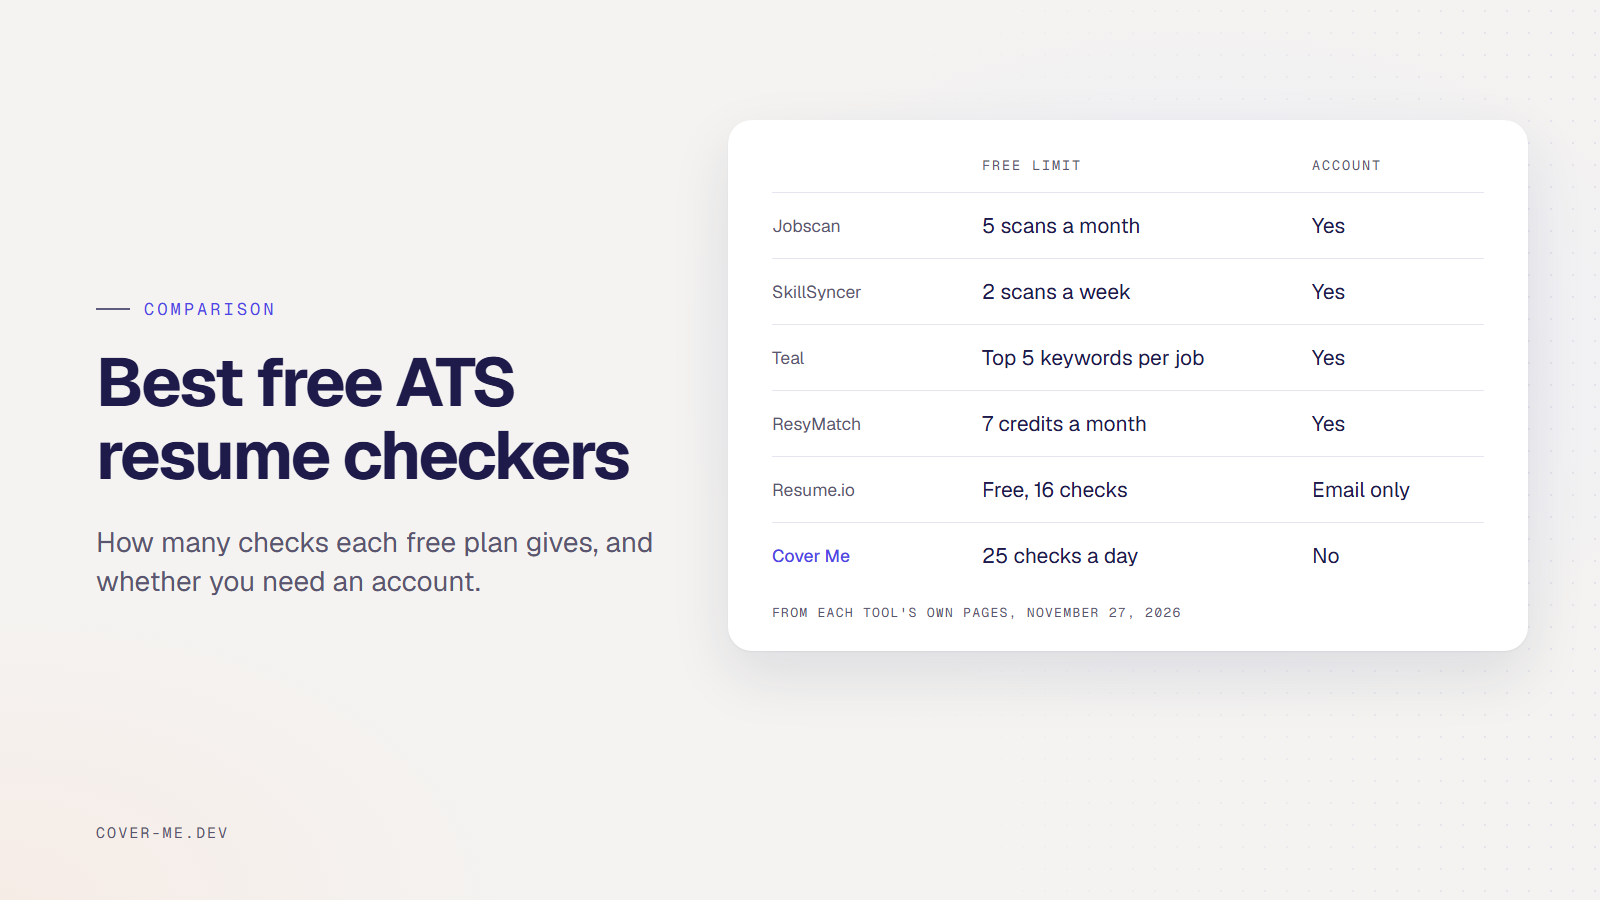
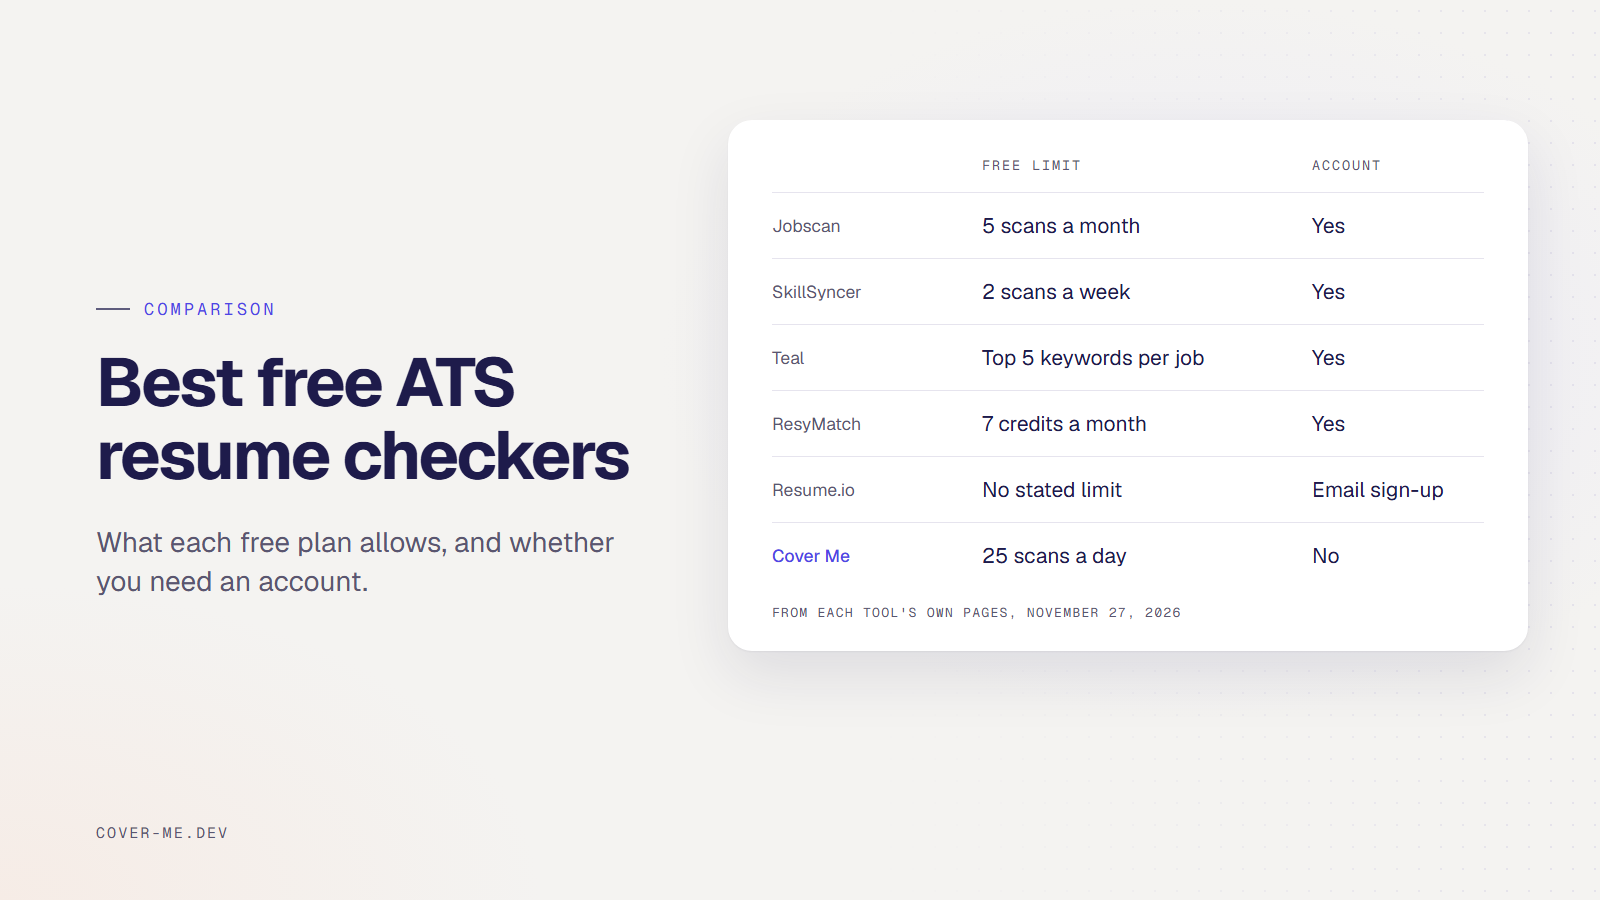
Correct the free ATS checker comparison against each tool's pages (#422)
Resume.io's email signs you up, so it isn't account-free. The limit
column held rule counts for Enhancv, Resume.io and Rezi, which read as
usage limits; those move to the result column. SkillSyncer's formatting
checks are Premium. The Jobscan rescan rule now links its help article
and mentions Rewards. The FAQ no longer puts Cover Me first.

diff --git a/web/app/guides/best-free-ats-resume-checkers/page.tsx b/web/app/guides/best-free-ats-resume-checkers/page.tsx
@@ -30,6 +30,7 @@ export const metadata: Metadata = {
 const SRC = {
   jobscanPlan: 'https://app.jobscan.co/plan',
   jobscanPremium: 'https://www.jobscan.co/video-jobscan-premium',
+  jobscanRescan: 'https://jobscansupport.frontkb.com/en/articles/11538561',
   skillsyncer: 'https://skillsyncer.com/pricing',
   teal: 'https://www.tealhq.com/pricing',
   resumeWordedUpload: 'https://resumeworded.com/upload-resume',
@@ -48,15 +49,15 @@ const SRC = {
 
 const TOOLS = [
   { name: 'Jobscan', limit: '5 resume scans a month', account: 'Yes', posting: 'Yes', result: 'Match rate, searchability tips and a short skills list', sources: [{ label: 'Plans', href: SRC.jobscanPlan }, { label: 'Premium', href: SRC.jobscanPremium }] },
-  { name: 'SkillSyncer', limit: '2 job match scans and 10 AI credits a week', account: 'Yes, no card', posting: 'Yes', result: 'Match score, missing keywords and formatting issues', sources: [{ label: 'Pricing', href: SRC.skillsyncer }] },
+  { name: 'SkillSyncer', limit: '2 job match scans and 10 AI credits a week', account: 'Yes, no card', posting: 'Yes', result: 'Match score, missing keywords, job title and degree match', sources: [{ label: 'Pricing', href: SRC.skillsyncer }] },
   { name: 'Teal', limit: 'Top 5 keywords for each job', account: 'Yes', posting: 'Yes', result: 'Basic resume analysis and the top 5 keywords', sources: [{ label: 'Pricing', href: SRC.teal }] },
   { name: 'Resume Worded', limit: 'Your score and top issues; part of the Targeted Resume report', account: 'Yes', posting: 'Yes, in Targeted Resume', result: 'Score, top issues and some missing keywords', sources: [{ label: 'Upload', href: SRC.resumeWordedUpload }, { label: 'Pro', href: SRC.resumeWordedPro }] },
-  { name: 'Enhancv', limit: '27 checks, PDF or DOCX up to 2 MB', account: 'Not stated', posting: 'Optional', result: 'Score and task list; with a job, the skills and keywords you have and miss', sources: [{ label: 'Checker', href: SRC.enhancv }] },
-  { name: 'Resume.io', limit: '16 checks', account: 'Email only', posting: 'Optional', result: 'Score and fixes; with a job, a separate match score', sources: [{ label: 'Checker', href: SRC.resumeIo }] },
-  { name: 'Rezi', limit: 'Up to 23 checks', account: 'Yes', posting: 'Optional', result: 'Score out of 100 and a list of issues', sources: [{ label: 'Checker', href: SRC.rezi }, { label: 'Pricing', href: SRC.reziPricing }] },
+  { name: 'Enhancv', limit: 'Not stated', account: 'Not stated', posting: 'Optional', result: 'Score from 27 checks and a task list; with a job, the skills and keywords you have and miss', sources: [{ label: 'Checker', href: SRC.enhancv }] },
+  { name: 'Resume.io', limit: 'Not stated', account: 'Email, which signs you up', posting: 'Optional', result: 'Score from 16 checks and fixes; with a job, a separate match score', sources: [{ label: 'Checker', href: SRC.resumeIo }] },
+  { name: 'Rezi', limit: '1 resume', account: 'Yes', posting: 'Optional', result: 'Score out of 100 from up to 23 checks, and a list of issues', sources: [{ label: 'Checker', href: SRC.rezi }, { label: 'Pricing', href: SRC.reziPricing }] },
   { name: 'ResyMatch', limit: '7 free credits a month', account: 'Yes, verified email', posting: 'Required', result: 'Score for ATS practices, keywords and results shown', sources: [{ label: 'Scanner', href: SRC.resyMatch }] },
   { name: 'Jobalytics', limit: 'Free Chrome extension; limits not stated', account: 'Not stated', posting: 'Yes, on the job board page', result: 'Match rate and keywords to add', sources: [{ label: 'Home', href: SRC.jobalytics }] },
-  { name: 'Cover Me', limit: '25 checks a day', account: 'No', posting: 'Required', result: 'Score out of 100, every missing keyword, unmet requirements', sources: [{ label: 'Checker', href: '/ats-checker' }, { label: 'Limit', href: SRC.coverMeLimit }] },
+  { name: 'Cover Me', limit: '25 scans a day', account: 'No', posting: 'Required', result: 'Score out of 100, missing keywords, unmet requirements', sources: [{ label: 'Checker', href: '/ats-checker' }, { label: 'Limit', href: SRC.coverMeLimit }] },
   { name: 'Resume Matcher', limit: 'Free and open source; you run it yourself', account: 'No', posting: 'Yes', result: 'Match score, a tailored rewrite and a cover letter', sources: [{ label: 'GitHub', href: SRC.resumeMatcher }] },
 ]
 
@@ -69,7 +70,7 @@ const faqJsonLd = {
       name: 'What is the best free ATS resume checker?',
       acceptedAnswer: {
         '@type': 'Answer',
-        text: "It depends on what you need from the free plan. To check a resume against one posting with no account, Cover Me's free checker runs 25 checks a day and lists every missing keyword. With a free account, SkillSyncer gives 2 job match scans a week, ResyMatch 7 credits a month and Jobscan 5 scans a month. For a check without a job description, Enhancv runs 27 checks and Rezi up to 23. Limits are from each tool's own pages on November 27, 2026.",
+        text: "It depends on whether you'll make an account. With a free account, SkillSyncer gives 2 job match scans a week, ResyMatch 7 credits a month and Jobscan 5 scans a month, and Teal shows the top 5 keywords for each job. Without one, Cover Me's free checker scores a resume against a posting up to 25 times a day. Enhancv and Rezi also score a resume with no job description, and neither states a limit. Limits are from each tool's own pages on November 27, 2026.",
       },
     },
     {
@@ -77,7 +78,7 @@ const faqJsonLd = {
       name: 'Can I check my resume for ATS without signing up?',
       acceptedAnswer: {
         '@type': 'Answer',
-        text: "Yes. Cover Me's free ATS checker at cover-me.dev/ats-checker needs no account or email. Resume.io's checker needs an email address but no account. Jobscan, SkillSyncer, Teal, Resume Worded, Rezi and ResyMatch need a free account. Enhancv's checker page doesn't say whether it asks you to sign up.",
+        text: "Yes. Cover Me's free ATS checker at cover-me.dev/ats-checker needs no account or email. Resume.io's checker asks for your email to show results and uses it to sign you up. Jobscan, SkillSyncer, Teal, Resume Worded, Rezi and ResyMatch need a free account. Enhancv's checker page doesn't say whether it asks you to sign up.",
       },
     },
     {
@@ -85,7 +86,7 @@ const faqJsonLd = {
       name: 'Which free ATS checkers read a PDF resume?',
       acceptedAnswer: {
         '@type': 'Answer',
-        text: "Most of them. Enhancv, Resume.io and Rezi take PDF or DOCX files up to 2 MB. ResyMatch takes PDF, Word or text files. Cover Me's checker takes a PDF, a Word file or pasted text. A PDF that is a scanned image has no text to read, so any checker will miss what's in it.",
+        text: "Most of them. Enhancv and Rezi take PDF or DOCX files up to 2 MB, and Resume.io takes PDF or DOCX. ResyMatch takes PDF, Word or text files. Cover Me's checker takes a PDF, a Word file or pasted text. A PDF that is a scanned image has no text to read, so any checker will miss what's in it.",
       },
     },
     {
@@ -113,7 +114,7 @@ export default function Page() {
       }
       tldr={[
         "With a free account, SkillSyncer gives 2 job match scans a week, ResyMatch 7 credits a month and Jobscan 5 scans a month. Teal shows only the top 5 keywords for a job.",
-        "Cover Me's free checker needs no account and runs 25 checks a day. Resume.io asks for an email but no account. Enhancv's page doesn't say.",
+        "Cover Me's free checker needs no account and allows 25 scans a day. Resume.io signs you up with just an email. Enhancv's page doesn't say whether you need an account.",
         "No checker sees the score an employer's ATS gives you. Use the list of missing keywords, not the number.",
       ]}
       intro={
@@ -135,7 +136,7 @@ export default function Page() {
                       <th className={th}>Account</th>
                       <th className={th}>Reads the job description</th>
                       <th className={th}>Free result</th>
-                      <th className={th}>Source, checked Nov 27, 2026</th>
+                      <th className={th}>Source, checked {CHECKED}</th>
                     </tr>
                   </thead>
                   <tbody>
@@ -166,15 +167,15 @@ export default function Page() {
           title: '1. Jobscan: 5 free scans a month',
           body: (
             <p>
-              Jobscan&rsquo;s <a href={SRC.jobscanPlan} {...ext}>plan page</a> gives a free account 5 resume scans a month. Each scan compares your resume with a job description you paste in. The free result has searchability tips and a short list of skills, and the full skills list and formatting checks are on Premium, according to Jobscan&rsquo;s <a href={SRC.jobscanPremium} {...ext}>Premium page</a>. AI rewriting and the cover letter writer are paid only. Premium is $49.95 a month, or $89.95 every 3 months. A rescan after you edit counts as a new scan, so one job can use several. The <Link href="/guides/jobscan-review">Jobscan review</Link> covers what its match rate measures, and the <Link href="/guides/free-jobscan-alternatives">free Jobscan alternatives</Link> guide compares tools that also rewrite the resume.
+              Jobscan&rsquo;s <a href={SRC.jobscanPlan} {...ext}>plan page</a> gives a free account 5 resume scans a month. Each scan compares your resume with a job description you paste in. The free result has searchability tips and a short list of skills, and the full skills list and formatting checks are on Premium, according to Jobscan&rsquo;s <a href={SRC.jobscanPremium} {...ext}>Premium page</a>. AI rewriting and the cover letter writer are paid only. Premium is $49.95 a month, or $89.95 every 3 months. Jobscan&rsquo;s <a href={SRC.jobscanRescan} {...ext}>help center</a> says a rescan after you edit counts as a new scan, so one job can use several, and that you can earn more free scans through Jobscan Rewards. The <Link href="/guides/jobscan-review">Jobscan review</Link> covers what its match rate measures, and the <Link href="/guides/free-jobscan-alternatives">free Jobscan alternatives</Link> guide compares tools that also rewrite the resume.
             </p>
           ),
         },
         {
-          title: '2. SkillSyncer: the most free scans with an account',
+          title: '2. SkillSyncer: the highest stated scan limit with an account',
           body: (
             <p>
-              SkillSyncer&rsquo;s <a href={SRC.skillsyncer} {...ext}>pricing page</a> gives the free plan 2 job match scans a week, 10 AI credits a week and 1 resume, with no card needed. A scan shows a match score, the keywords you&rsquo;re missing and formatting problems that break resume parsers. The AI credits pay for rewrites of your bullets, and you approve each change. Premium is $14.95 a month, or $34.86 every 3 months, with unlimited scans.
+              SkillSyncer&rsquo;s <a href={SRC.skillsyncer} {...ext}>pricing page</a> gives the free plan 2 job match scans a week, 10 AI credits a week and 1 resume, with no card needed. On the free plan, a scan shows a match score, the skills and keywords you&rsquo;re missing, whether your job title and degree match, and checks on accomplishments, word count and contact details. The word choice and date formatting checks are on Premium. The AI credits pay for rewrites of your bullets, and you approve each change. Premium is $14.95 a month, or $34.86 every 3 months, with unlimited scans.
             </p>
           ),
         },
@@ -203,10 +204,10 @@ export default function Page() {
           ),
         },
         {
-          title: '6. Resume.io: 16 checks for an email address',
+          title: '6. Resume.io: 16 checks, with an email sign-up',
           body: (
             <p>
-              Resume.io&rsquo;s <a href={SRC.resumeIo} {...ext}>ATS checker</a> runs 16 checks on how well software can read your resume, how strong the content is and how well it matches a job. You enter an email to see the results, but you don&rsquo;t need an account. Add a job description and it gives a second score for how well you match the role. The page says &ldquo;max 2MB&rdquo; in one place and &ldquo;max 10MB&rdquo; in another, so keep the file under 2 MB.
+              Resume.io&rsquo;s <a href={SRC.resumeIo} {...ext}>ATS checker</a> runs 16 checks on how well software can read your resume, how strong the content is and how well it matches a job. You enter an email to see the results, and Resume.io uses it to make an account you sign in to with an emailed link. Add a job description and it gives a second score for how well you match the role. The page says &ldquo;max 2MB&rdquo; in one place and &ldquo;max 10MB&rdquo; in another, so keep the file under 2 MB.
             </p>
           ),
         },
@@ -235,11 +236,11 @@ export default function Page() {
           ),
         },
         {
-          title: '10. Cover Me: no account, 25 checks a day',
+          title: '10. Cover Me: no account, 25 scans a day',
           body: (
             <>
               <p>
-                Cover Me&rsquo;s <Link href="/ats-checker">free ATS resume checker</Link> needs no account or email. You paste a job posting, then paste your resume or upload a PDF or Word file. It gives an <Link href="/guides/what-is-an-ats-score">ATS match score</Link> out of 100 and lists every must-have and nice-to-have keyword the posting asks for, with where each one appears in your resume. It also checks hard requirements such as years of experience, whether the job title is on your resume, your contact details and page count, and which bullets have a number. It runs 25 checks a day, a limit set in its <a href={SRC.coverMeLimit} {...ext}>open-source code</a>.
+                Cover Me&rsquo;s <Link href="/ats-checker">free ATS resume checker</Link> needs no account or email. You paste a job posting, then paste your resume or upload a PDF or Word file. It gives an <Link href="/guides/what-is-an-ats-score">ATS match score</Link> out of 100 and lists the must-have and nice-to-have keywords it finds in the posting, with where each one appears in your resume. It also checks hard requirements such as years of experience, whether the job title is on your resume, your contact details and page count, and which bullets have a number. You can run it 25 times a day, a limit set in its <a href={SRC.coverMeLimit} {...ext}>open-source code</a>.
               </p>
               <p>
                 The posting and resume go to Anthropic&rsquo;s Claude to read them, and Cover Me doesn&rsquo;t store either. The checker doesn&rsquo;t rewrite anything. The Cover Me Chrome extension does that on the posting you have open: it tailors the resume, writes a cover letter and shows the same score. Its free account gives 10 generations to start, then 5 a week.
@@ -267,7 +268,7 @@ export default function Page() {
           title: 'Which one should you use?',
           body: (
             <p>
-              For a quick check against one posting with no sign-up, use Cover Me&rsquo;s checker, or Resume.io&rsquo;s if you don&rsquo;t mind giving an email. If you apply to a few jobs a week and want scans saved in an account, SkillSyncer&rsquo;s 2 a week go furthest, and its AI credits also rewrite bullets. Jobscan&rsquo;s 5 a month suit a handful of important applications. If you&rsquo;d rather check the resume&rsquo;s format with no job in mind, Enhancv and Rezi both do that. Whichever you use, add only keywords that are true of you: the <Link href="/guides/tailor-resume-to-job-description">guide to tailoring your resume</Link> shows how, and the <Link href="/guides/ats-friendly-resume-format">ATS format test</Link> shows which layouts real ATSs misread.
+              For a quick check against one posting with no sign-up, use Cover Me&rsquo;s checker. If you apply to a few jobs a week and want scans saved in an account, SkillSyncer states the highest limit at 2 a week, and its AI credits also rewrite bullets. Jobscan&rsquo;s 5 a month suit a handful of important applications. If you&rsquo;d rather check the resume&rsquo;s format with no job in mind, Enhancv and Rezi both do that. Whichever you use, add only keywords that are true of you: the <Link href="/guides/tailor-resume-to-job-description">guide to tailoring your resume</Link> shows how, and the <Link href="/guides/ats-friendly-resume-format">ATS format test</Link> shows which layouts real ATSs misread.
             </p>
           ),
         },

diff --git a/web/lib/guides.ts b/web/lib/guides.ts
@@ -188,7 +188,7 @@ export const GUIDES: Guide[] = [
     date: '2026-11-27',
     image: '/guides/best-free-ats-resume-checkers.png',
     imageAlt:
-      "Table of free ATS resume checkers, from each tool's own pages on November 27, 2026. Jobscan: 5 scans a month with an account. SkillSyncer: 2 job match scans a week with an account. Teal: the top 5 keywords for a job with an account. ResyMatch: 7 free credits a month with an account. Resume.io: free with an email. Cover Me's checker: 25 checks a day with no account.",
+      "Table of free ATS resume checkers, from each tool's own pages on November 27, 2026. Jobscan: 5 scans a month with an account. SkillSyncer: 2 job match scans a week with an account. Teal: the top 5 keywords for a job with an account. ResyMatch: 7 free credits a month with an account. Resume.io: no stated limit, with an email sign-up. Cover Me's checker: 25 scans a day with no account.",
   },
 ]
 

diff --git a/web/app/ats-checker/page.tsx b/web/app/ats-checker/page.tsx
@@ -102,7 +102,7 @@ export default function AtsCheckerPage() {
             <Link href="/resume-keywords" className="text-brand-strong underline underline-offset-2">resume keywords by job</Link>, counted from real postings.
           </p>
           <p>
-            To see how this checker&apos;s free limits compare with Jobscan, SkillSyncer, Teal and eight others, read the{' '}
+            To see how this checker&apos;s free limits compare with Jobscan, SkillSyncer, Teal and other free checkers, read the{' '}
             <Link href="/guides/best-free-ats-resume-checkers" className="text-brand-strong underline underline-offset-2">best free ATS resume checkers, compared</Link>.
           </p>
         </div>

diff --git a/web/lib/guides.test.ts b/web/lib/guides.test.ts
@@ -256,7 +256,7 @@ describe('the free ATS resume checkers guide', () => {
   it('links a source on every row of the comparison table, under a column naming the check date', async () => {
     const html = await render()
     const table = html.slice(html.indexOf('<table'), html.indexOf('</table>'))
-    expect(table).toMatch(/<th[^>]*>Source, checked Nov 27, 2026<\/th>/)
+    expect(table).toMatch(/<th[^>]*>Source, checked November 27, 2026<\/th>/)
     const rows = table.split('<tbody>')[1].split('</tr>').filter((r) => r.includes('<tr'))
     expect(rows.length).toBeGreaterThanOrEqual(10)
     for (const row of rows) expect(row).toMatch(/<a href="https:\/\//)
